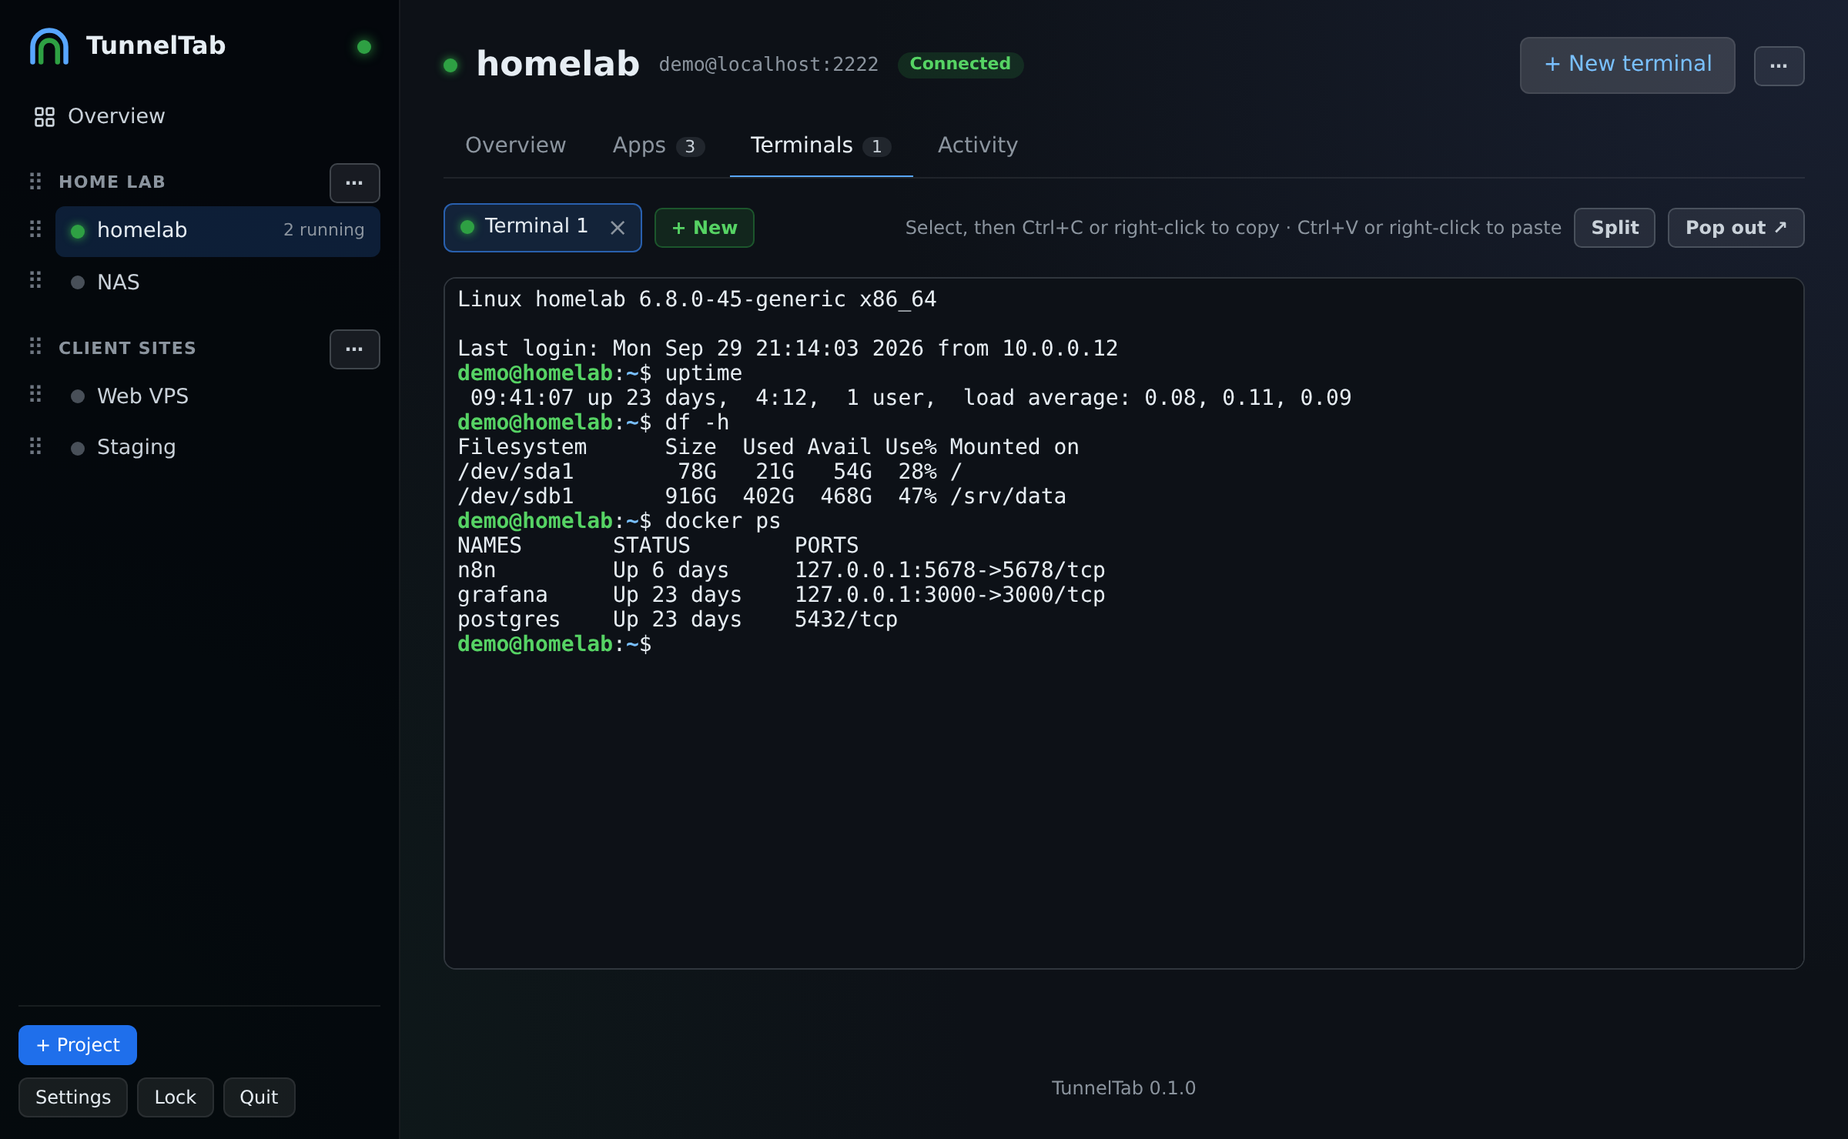
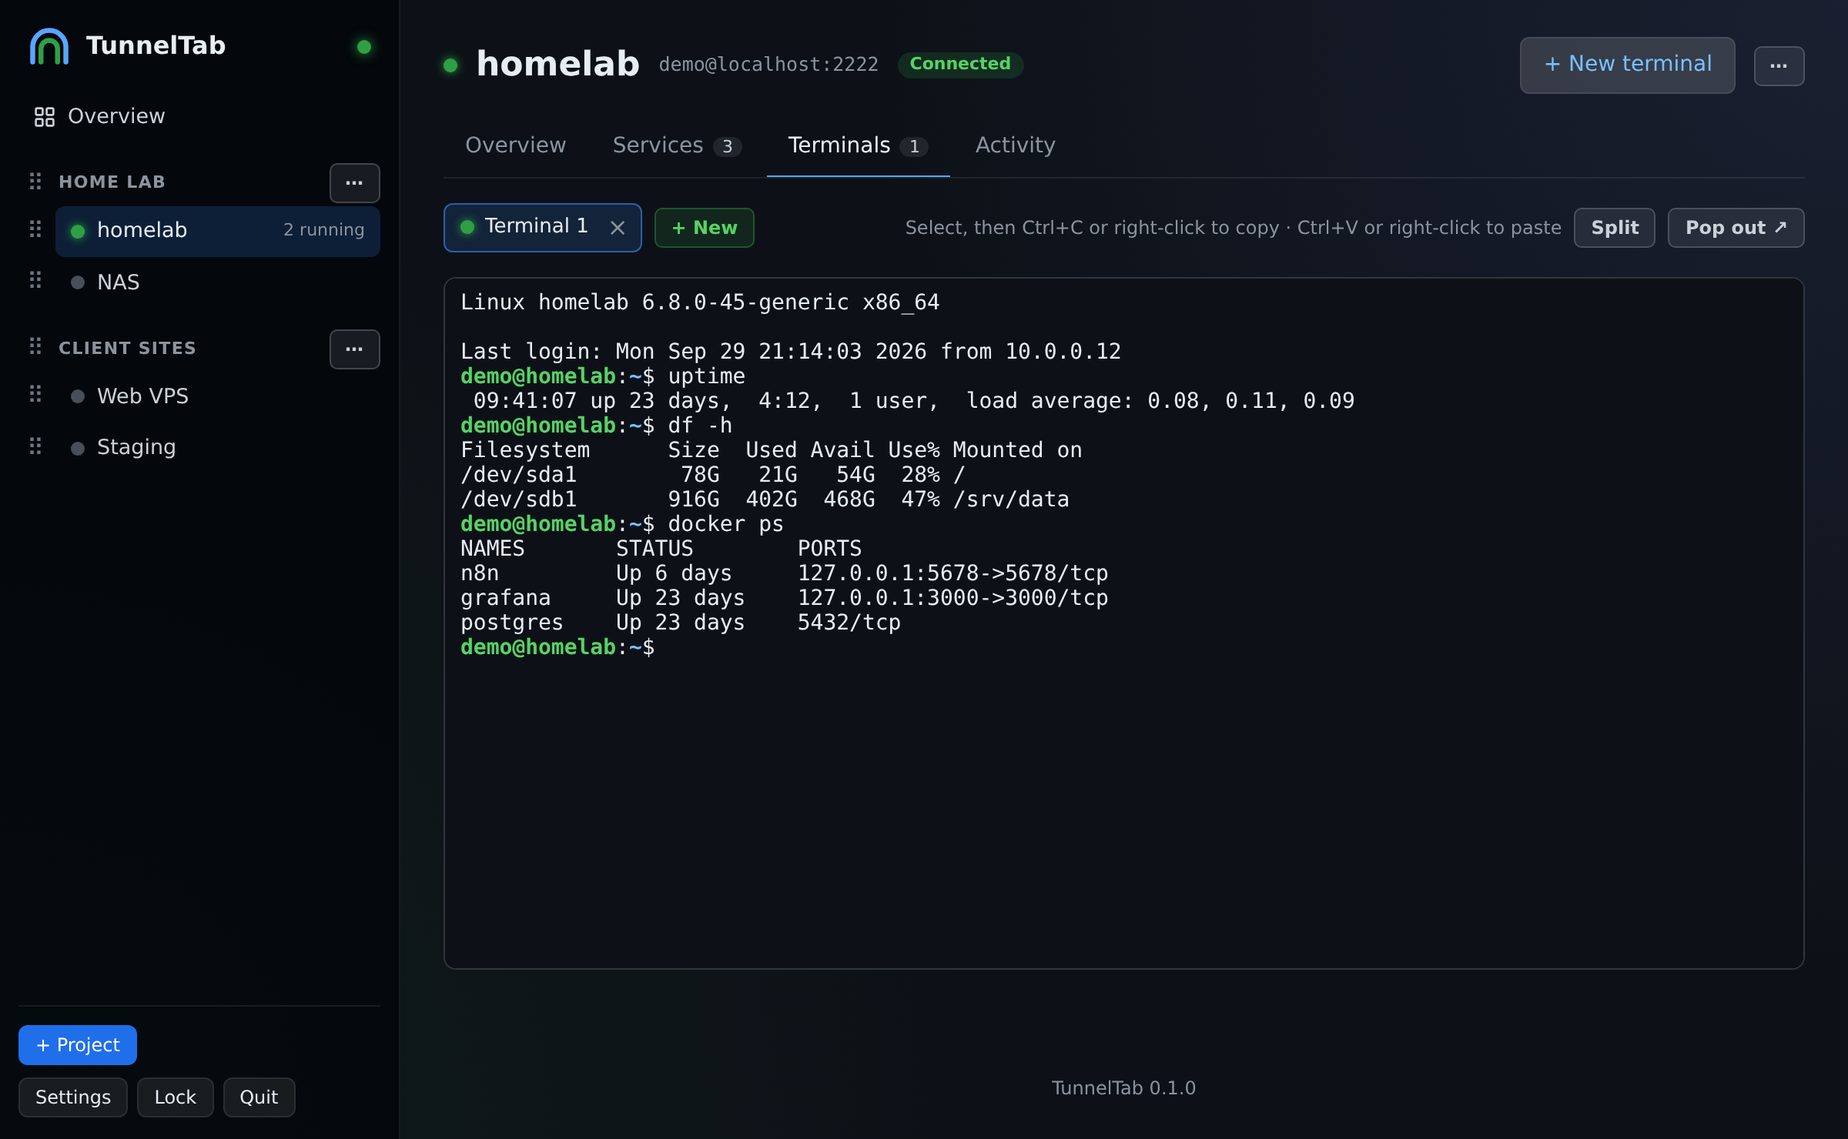
Fix auto-lock while navigating; rename Apps to Services; terminal padding
- Clicks, keys and scrolling in the dashboard report activity (POST
  /api/touch, at most every 30 s), so auto-lock no longer locks while you
  move between pages of the new layout.
- The Apps tab is called Services, matching + Service and the dialogs.
- More padding around terminal text, especially at the bottom.
- Tests: touch postpones auto-lock; browser walkthrough checks activity.

diff --git a/web/static/js/app.js b/web/static/js/app.js
@@ -33,6 +33,20 @@ let currentScreen = ""; // which screen is showing, so it isn't redrawn needless
 
 whenSignedOut(showSignedOut);
 
+// Auto-lock counts requests to the program as activity, but moving between
+// pages in the dashboard makes none. So clicks, keys and scrolling in the
+// dashboard are reported, at most every 30 s. (Typing in a terminal is
+// counted by the program itself.)
+let lastTouch = 0;
+function noteActivity() {
+  if (state.vault !== "unlocked" || currentScreen !== "dashboard" || Date.now() - lastTouch < 30000) return;
+  lastTouch = Date.now();
+  api("POST", "/touch").catch(() => {});
+}
+for (const type of ["pointerdown", "keydown", "wheel"]) {
+  document.addEventListener(type, noteActivity, { capture: true, passive: true });
+}
+
 async function start() {
   if (!(await signIn())) return showSignedOut();
   try {
@@ -310,7 +324,7 @@ const byOrder = (a, b) => a.order - b.order || a.name?.localeCompare?.(b.name) |
 
 // The dashboard has a sidebar (projects and servers) and one page at a time,
 // chosen by the address: #/ is the Overview, #/server/<id>/<tab> a server.
-const SERVER_TABS = ["overview", "apps", "terminals", "activity"];
+const SERVER_TABS = ["overview", "services", "terminals", "activity"];
 
 function currentRoute() {
   const m = location.hash.match(/^#\/server\/([^/]+)(?:\/([a-z]+))?$/);
@@ -556,7 +570,7 @@ function renderRunningNow() {
     rows.push(h("li", { class: "list-row" },
       h("span", { class: ["dot", fwd.state === "active" ? "connected" : fwd.state] }),
       h("strong", {}, svc.label),
-      h("a", { class: "muted", href: serverHref(svc.serverId, "apps") }, serverName(svc.serverId)),
+      h("a", { class: "muted", href: serverHref(svc.serverId, "services") }, serverName(svc.serverId)),
       fwd.state === "active"
         ? h("a", { class: "mono", href: serviceURL(svc, fwd), target: "_blank", rel: "noopener noreferrer" }, `localhost:${fwd.localPort}`)
         : h("span", { class: "muted" }, STATE_TEXT[fwd.state] || fwd.state),
@@ -578,7 +592,7 @@ function renderRunningNow() {
   }
   return rows.length
     ? h("ul", { class: "list" }, rows)
-    : h("p", { class: "hint" }, "Nothing is running. Start an app from a server's Apps tab, or open a terminal.");
+    : h("p", { class: "hint" }, "Nothing is running. Start a service from a server's Services tab, or open a terminal.");
 }
 
 function renderServerTable() {
@@ -588,7 +602,7 @@ function renderServerTable() {
   return h("div", { class: "table-wrap" }, h("table", { class: "table" },
     h("thead", {}, h("tr", {},
       h("th", {}, "Server"), h("th", {}, "Project"), h("th", {}, "Status"), h("th", {}, "Connected for"),
-      h("th", {}, "Apps running"), h("th", { class: "sr-only" }, "Actions"))),
+      h("th", {}, "Services running"), h("th", { class: "sr-only" }, "Actions"))),
     h("tbody", {}, servers.map((s) => {
       const st = state.servers.get(s.id);
       const apps = state.data.services.filter((x) => x.serverId === s.id).length;
@@ -673,7 +687,7 @@ function renderServerPage(s, tab) {
   const st = state.servers.get(s.id);
   const services = state.data.services.filter((x) => x.serverId === s.id).sort(byOrder);
   const views = termGroup(s.id).views;
-  const tabs = [["overview", "Overview"], ["apps", "Apps", services.length], ["terminals", "Terminals", views.length], ["activity", "Activity"]];
+  const tabs = [["overview", "Overview"], ["services", "Services", services.length], ["terminals", "Terminals", views.length], ["activity", "Activity"]];
   return [
     h("div", { class: "page-head" },
       h("span", { class: ["dot", st?.state || "idle"] }),
@@ -690,7 +704,7 @@ function renderServerPage(s, tab) {
     h("nav", { class: "page-tabs", "aria-label": `${s.name} sections` },
       tabs.map(([id, label, count]) => h("a", { href: serverHref(s.id, id), "aria-current": id === tab ? "page" : null },
         label, count !== undefined ? h("span", { class: "count" }, String(count)) : null))),
-    tab === "apps" ? renderAppsTab(s, services)
+    tab === "services" ? renderServicesTab(s, services)
       : tab === "terminals" ? renderTerminalsTab(s)
         : tab === "activity" ? h("section", { class: "box" }, renderActivity(state.activity.filter((e) => e.serverId === s.id)))
           : renderServerOverview(s, st, services),
@@ -705,7 +719,7 @@ function renderServerOverview(s, st, services) {
     ["Status", statusPill(st)],
     ["Connected", st?.since && connected
       ? `${duration(Date.now() - Date.parse(st.since))}, since ${clock(st.since)}`
-      : h("span", { class: "muted" }, "Not right now. Starting an app or a terminal connects.")],
+      : h("span", { class: "muted" }, "Not right now. Starting a service or a terminal connects.")],
     ["Reconnects", st?.since ? String(st.reconnects || 0) : "—"],
     ["Address", h("span", { class: "mono" }, address(s))],
     ["Login", AUTH_TEXT[s.auth.type] || s.auth.type],
@@ -715,7 +729,7 @@ function renderServerOverview(s, st, services) {
     h("section", { class: "box" }, h("h2", {}, "Connection"),
       h("dl", { class: "kv" }, rows.map(([k, v]) => [h("dt", {}, k), h("dd", {}, v)]))),
     h("section", { class: "box" },
-      h("div", { class: "box-head" }, h("h2", {}, "Apps"), h("a", { class: "chip", href: serverHref(s.id, "apps") }, "Manage")),
+      h("div", { class: "box-head" }, h("h2", {}, "Services"), h("a", { class: "chip", href: serverHref(s.id, "services") }, "Manage")),
       services.length
         ? h("ul", { class: "list" }, services.map((svc) => {
           const fwd = state.forwards.get(svc.id);
@@ -727,17 +741,17 @@ function renderServerOverview(s, st, services) {
             h("span", { class: "grow" }),
             open);
         }))
-        : h("p", { class: "hint" }, "No apps yet.", " ", h("button", { class: "linklike", onclick: () => serviceDialog(s.id) }, "Add one"))));
+        : h("p", { class: "hint" }, "No services yet.", " ", h("button", { class: "linklike", onclick: () => serviceDialog(s.id) }, "Add one"))));
 }
 
-function renderAppsTab(s, services) {
+function renderServicesTab(s, services) {
   return h("section", { class: "box" },
     h("div", { class: "box-head" },
-      h("h2", {}, "Apps"),
+      h("h2", {}, "Services"),
       h("button", { class: "chip add", onclick: () => serviceDialog(s.id) }, "+ Service")),
     services.length
       ? h("ul", { class: "services" }, services.map(renderService))
-      : h("p", { class: "hint" }, "No apps yet. Add a web app running on this server with “+ Service”."));
+      : h("p", { class: "hint" }, "No services yet. Add a web app running on this server with “+ Service”."));
 }
 
 // --- Reordering (drag the ⠿ grip, or focus it and press ↑/↓) ---------------

diff --git a/tests/e2e/run.js b/tests/e2e/run.js
@@ -68,6 +68,8 @@ function start(cmd, args, opts) {
   const context = await browser.newContext({ viewport: { width: 1200, height: 800 } });
   const page = await context.newPage();
   const problems = [];
+  let touches = 0; // "the user is active" reports (auto-lock)
+  page.on("request", (r) => { if (r.url().endsWith("/api/touch")) touches++; });
   page.on("console", (m) => m.type() === "error" && !m.text().startsWith("Failed to load resource") && problems.push("console: " + m.text()));
   page.on("pageerror", (e) => problems.push("pageerror: " + e.message));
   await page.addInitScript(() => document.addEventListener("securitypolicyviolation",
@@ -121,7 +123,7 @@ function start(cmd, args, opts) {
   await page.locator(".side-server", { hasText: "Demo VPS" }).getByRole("link").click();
   await page.getByRole("heading", { name: "Demo VPS", level: 1 }).waitFor();
   assert.ok(page.url().includes("#/server/"), "server page not in the address: " + page.url());
-  await page.locator(".page-tabs").getByRole("link", { name: /Apps/ }).click();
+  await page.locator(".page-tabs").getByRole("link", { name: /Services/ }).click();
 
   // 4. Service, then Open through the tunnel.
   await page.getByRole("button", { name: "+ Service" }).click();
@@ -316,7 +318,7 @@ function start(cmd, args, opts) {
   // The dashboard's own terminal (the second one) re-attaches by itself.
   await page.locator(".page-tabs a[aria-current=page]", { hasText: "Terminals" }).waitFor();
   await waitPane(1, "second terminal");
-  await page.locator(".page-tabs").getByRole("link", { name: /Apps/ }).click();
+  await page.locator(".page-tabs").getByRole("link", { name: /Services/ }).click();
   await page.locator(".pill.active").waitFor();
   step("lock and unlock (rate-limited retry), tunnel still running, in-page terminal back");
 
@@ -368,7 +370,7 @@ function start(cmd, args, opts) {
   await page.getByRole("tab", { name: /Terminal 1/ }).waitFor();
   assert.strictEqual(await page.getByRole("tab", { name: /Terminal \d/ }).count(), 1, "the exited terminal is still listed");
   await waitPane(0, "second terminal");
-  await page.locator(".page-tabs").getByRole("link", { name: /Apps/ }).click();
+  await page.locator(".page-tabs").getByRole("link", { name: /Services/ }).click();
   step("reload keeps the session and brings this tab's terminal back");
 
   // 9. Edit server keeping the saved password.
@@ -465,8 +467,9 @@ function start(cmd, args, opts) {
   await page.locator(".activity").getByText("Demo app: tunnel started").first().waitFor();
   await page.goBack();
   await page.locator(".kv").waitFor();
-  await page.locator(".page-tabs").getByRole("link", { name: /Apps/ }).click();
-  step("overview (totals, running now, activity, all servers), narrow-window menu, server tabs, Back button");
+  await page.locator(".page-tabs").getByRole("link", { name: /Services/ }).click();
+  assert.ok(touches > 0, "clicking around the dashboard never reported activity (auto-lock would lock)");
+  step("overview (totals, running now, activity, all servers), narrow-window menu, server tabs, Back button; clicks count as activity");
 
   // 10. Stop the tunnel, then quit.
   await page.locator(".service", { hasText: "Demo app" }).getByRole("button", { name: "Stop" }).click();

diff --git a/tests/e2e/readme-shots.js b/tests/e2e/readme-shots.js
@@ -96,15 +96,15 @@ function start(cmd, args) {
   await page.getByRole("button", { name: "Trust and connect" }).click();
   await page.getByText("Connected to homelab.").waitFor();
 
-  // Two running tunnels (Apps tab), then the server page and the Overview.
-  await page.locator(".page-tabs").getByRole("link", { name: /Apps/ }).click();
+  // Two running tunnels (Services tab), then the server page and the Overview.
+  await page.locator(".page-tabs").getByRole("link", { name: /Services/ }).click();
   for (const name of ["n8n", "Grafana"]) {
     await page.locator(".service", { hasText: name }).getByRole("button", { name: "Start" }).click();
     await page.locator(".service", { hasText: name }).locator(".pill.active").waitFor();
   }
   await clearToasts();
   await page.mouse.move(0, 0);
-  await shot(page, "apps");
+  await shot(page, "services");
   await page.locator(".page-tabs").getByRole("link", { name: "Overview" }).click();
   await page.mouse.move(0, 0);
   await shot(page, "server");

diff --git a/web/static/app.css b/web/static/app.css
@@ -505,7 +505,7 @@ a.chip { text-decoration: none; display: inline-block; }
   border-bottom: 1px solid rgba(210, 153, 34, .35);
 }
 .termview-msg.bad { background: rgba(248, 81, 73, .1); border-bottom-color: rgba(248, 81, 73, .35); }
-.termview-screen { flex: 1; min-height: 0; padding: 6px 0 0 8px; }
+.termview-screen { flex: 1; min-height: 0; padding: 8px 6px 12px 10px; }
 .termview-screen .xterm { height: 100%; }
 .termview-screen.hidden-while-locked { visibility: hidden; }
 

diff --git a/internal/server/api.go b/internal/server/api.go
@@ -28,6 +28,7 @@ func (s *Server) routes(mux *http.ServeMux) {
 	a("GET /api/state", s.handleState)
 	a("GET /api/events", s.handleEvents)
 	a("POST /api/quit", s.handleQuit)
+	a("POST /api/touch", s.handleTouch)
 	a("POST /api/updates/check", s.handleCheckUpdates)
 	a("POST /api/updates/install", s.handleInstallUpdate)
 	a("GET /api/settings", s.handleGetSettings)
@@ -735,4 +736,15 @@ func (s *Server) handleConfirmHostKey(w http.ResponseWriter, r *http.Request) {
 	s.pendingMu.Unlock()
 	s.log.Info("host key confirmed", "replaced", p.changed)
 	writeJSON(w, http.StatusOK, map[string]string{"status": "confirmed", "fingerprint": ssh.FingerprintSHA256(p.key)})
+}
+
+// handleTouch records that the user is working in the dashboard (clicking,
+// typing, scrolling — the dashboard sends it at most every 30 s), so
+// auto-lock doesn't lock while they move between pages, which needs no other
+// request. It does nothing while locked.
+func (s *Server) handleTouch(w http.ResponseWriter, r *http.Request) {
+	if v := s.currentVault(); v != nil && s.vaultState() == "unlocked" {
+		v.Touch()
+	}
+	w.WriteHeader(http.StatusNoContent)
 }

diff --git a/internal/server/hardening_test.go b/internal/server/hardening_test.go
@@ -164,3 +164,29 @@ func TestNoDirectoryListings(t *testing.T) {
 		}
 	}
 }
+
+func TestDashboardActivityPostponesAutoLock(t *testing.T) {
+	h := ready(t)
+	v := h.srv.currentVault()
+	v.SetAutoLock(300 * time.Millisecond)
+	for i := 0; i < 6; i++ { // ~600 ms of clicking around the dashboard
+		h.mustCall("POST", "/api/touch", nil, 204)
+		time.Sleep(100 * time.Millisecond)
+		if v.LockIfIdle() {
+			t.Fatal("auto-locked while the dashboard was in use")
+		}
+	}
+	time.Sleep(400 * time.Millisecond)
+	if !v.LockIfIdle() {
+		t.Fatal("did not auto-lock after the activity stopped")
+	}
+	// Locked: touching doesn't unlock or fail.
+	h.mustCall("POST", "/api/touch", nil, 204)
+	if h.srv.vaultState() != "locked" {
+		t.Fatal("touch changed the lock state")
+	}
+	// Needs a session, like everything else.
+	if status, _ := h.request("POST", "/api/touch", nil, map[string]string{"Origin": h.base}); status != http.StatusUnauthorized {
+		t.Fatalf("unauthenticated touch: %d", status)
+	}
+}

diff --git a/docs/ARCHITECTURE.md b/docs/ARCHITECTURE.md
@@ -252,6 +252,7 @@ Errors are `{"error": "<code>", "message": "…", "field": "…"}`.
 | `GET /events` | | event stream (see below) |
 | `GET /settings` · `PUT /settings` | `Settings` | settings (+ `restartRequired` if the port changed) |
 | `POST /quit` | | stops tunnels and exits |
+| `POST /touch` | | 204; the user is working in the dashboard (it sends this on clicks, keys and scrolling, at most every 30 s), so auto-lock waits — moving between pages makes no other request |
 | `POST /vault/create` | `{password}` | 400 `weak_password`, 409 `vault_exists` |
 | `POST /vault/unlock` | `{password}` | 401 `wrong_password`, 429 `too_many_attempts` (+ `retryAfterMs`) |
 | `POST /vault/lock` | | |
@@ -399,7 +400,7 @@ the executable as-is.
 **Flow:** `start()` signs in → `GET /api/state` → setup, unlock or
 dashboard. The dashboard is a sidebar (projects and servers) plus one
 page chosen by the address: `#/` the Overview (totals, needs attention,
-running now, recent activity, all servers), `#/server/<id>[/apps|/activity]`
+running now, recent activity, all servers), `#/server/<id>[/services|/terminals|/activity]`
 a server page with tabs. `hashchange` re-renders; focus moves to the new
 page's heading. Below 860 px the sidebar becomes a slide-in panel (☰ Menu). The dashboard renders from `GET /api/data`; events update tunnel
 states in place (`tunnel`), trigger a re-fetch (`data`, `resync`) or switch
@@ -407,7 +408,7 @@ to the unlock screen (`vault`). Screens the user may be typing into are
 never redrawn by a background refresh.
 
 **Reordering** (`app.js`): projects and servers in the sidebar and apps on the
-Apps tab each have a ⠿ `grip` button that is the drag
+Services tab each have a ⠿ `grip` button that is the drag
 source (HTML5 drag and drop; types `application/x-tunneltab-project`,
 `…-server`, and `…-service-<serverId>` so services only drop within their
 server) and also moves the item with ↑/↓. `dropTarget` shows a line

diff --git a/PLAN.md b/PLAN.md
@@ -260,7 +260,7 @@ https://claude.ai/artifact/J8Tm3ZRyoxxjK41uDUoRoz.
 - **Server page**, with tabs:
   - **Overview** — health (when switched on), connection (connected since,
     ping, reconnects today, login method, fingerprint), apps, notes.
-  - **Apps** — the server's services: start/stop, open, edit, reorder.
+  - **Services** — start/stop, open, edit, reorder.
   - **Terminals** — terminals **inside the page** (see below).
   - **Activity** — this server's recent events.
   - **Notes** — free text about the server.
@@ -278,7 +278,7 @@ https://claude.ai/artifact/J8Tm3ZRyoxxjK41uDUoRoz.
 | Topic | Decision |
 |---|---|
 | Navigation | Hash routes (`#/overview`, `#/server/<id>/<tab>`); no framework, still vanilla JS with `h()`. Back/forward work. |
-| Reordering | Kept: servers (and moving between projects) in the sidebar; services in the Apps tab; projects in the sidebar. Keyboard reordering stays. |
+| Reordering | Kept: servers (and moving between projects) in the sidebar; services in the Services tab; projects in the sidebar. Keyboard reordering stays. |
 | Terminals | Same terminal sessions and WebSocket protocol as today. In-page terminals stay alive while you look at another server or the Overview; × ends one; closing the dashboard tab ends them (as closing a terminal tab does today). **Pop out** hands the session to a terminal tab (the existing "opened in another tab" hand-over). Locking detaches and blanks them, as today. Copy/paste as in 0.2.1. |
 | Activity log | Kept **in memory only** (last ~200 events), sent over the event stream, cleared on Quit. Never written to disk. Contains server names, so it is only shown while unlocked (like the rest of the data). |
 | Connection details | "Connected since", reconnect count and ping are measured by the SSH engine (ping = keep-alive round trip). |

diff --git a/docs/USER_GUIDE.md b/docs/USER_GUIDE.md
@@ -92,7 +92,7 @@ Each time TunnelTab starts, enter your master password to unlock it.
 - **A server's page** (click it in the sidebar) has tabs:
   - **Overview**: the connection (connected for how long, reconnects,
     address, login method) and its apps.
-  - **Apps**: start, stop, open, edit and reorder its web apps.
+  - **Services**: start, stop, open, edit and reorder its web apps.
   - **Activity**: what happened with this server since TunnelTab started.
 
 The address bar remembers which page you're on, so reloading the tab (or
@@ -107,14 +107,14 @@ next to a project's name has **Add server** and **Edit project** (rename
 or delete it; deleting also deletes its servers and services).
 
 **Reordering.** Every project and server in the sidebar, and every app on a
-server's **Apps** tab, has a ⠿ grip on its left:
+server's **Services** tab, has a ⠿ grip on its left:
 
 - **Drag** the grip to move the item; a blue line shows where it will go.
   Drop a server onto another project (or between that project's servers) to
   move it there.
 - Or **click the grip and press ↑ / ↓** to move it one place at a time.
 
-Apps can be reordered within their server. The order is saved in the
+Services can be reordered within their server. The order is saved in the
 vault.
 
 ## Adding a server
@@ -212,7 +212,7 @@ same connection when one is open).
 ## Services and web UI quick launch
 
 A **service** is a web app (or any TCP port) running on your server, such as
-n8n, Portainer or Grafana. On the server's page, open the **Apps** tab and
+n8n, Portainer or Grafana. On the server's page, open the **Services** tab and
 click **+ Service**:
 
 | Field | Meaning |

diff --git a/README.md b/README.md
@@ -96,11 +96,11 @@ protects an unattended PC.
 <table>
 <tr>
 <td width="50%"><img src="docs/images/server.png" alt="A server's page: connection details and its apps"></td>
-<td width="50%"><img src="docs/images/apps.png" alt="A server's Apps tab: start, stop, open and reorder web apps"></td>
+<td width="50%"><img src="docs/images/services.png" alt="A server's Services tab: start, stop, open and reorder web apps"></td>
 </tr>
 <tr>
 <td align="center"><b>Server page</b><br><sub>Connection details and apps, in tabs</sub></td>
-<td align="center"><b>Apps</b><br><sub>Start, stop, open and reorder</sub></td>
+<td align="center"><b>Services</b><br><sub>Start, stop, open and reorder</sub></td>
 </tr>
 <tr>
 <td width="50%"><img src="docs/images/terminal.png" alt="In-browser SSH terminal"></td>

diff --git a/CHANGELOG.md b/CHANGELOG.md
@@ -6,6 +6,16 @@ and versions follow [Semantic Versioning](https://semver.org/).
 
 ## [Unreleased]
 
+### Changed
+- The **Apps** tab is now called **Services**, matching **+ Service** and the
+  service dialogs.
+- A little more room around the text in terminals, especially at the bottom.
+
+### Fixed
+- TunnelTab could auto-lock while you were moving between pages of the new
+  dashboard, because those clicks didn't count as activity. Clicks, typing
+  and scrolling in the dashboard now postpone auto-lock.
+
 ## [0.3.0] - 2026-10-01
 
 ### Changed
